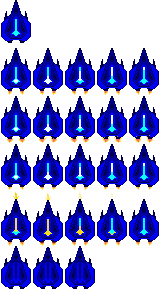
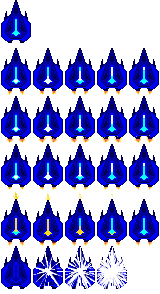
Spitter Art & Plane Death

Changed region(s): [[0.2188, 0.8265, 0.8125, 1.0], [0.0625, 0.8571, 0.1562, 0.9796]]

diff --git a/SecondSemesterExamProject/Components/Enemies/Ranged/Ranged.cs b/SecondSemesterExamProject/Components/Enemies/Ranged/Ranged.cs
@@ -28,11 +28,6 @@ namespace TankGame
         /// </summary>
         public override void CreateAnimation()
         {
-            animator.CreateAnimation("Idle", new Animation(5, 23, 0, 23, 23, 4, Vector2.Zero));
-            animator.CreateAnimation("Walk", new Animation(4, 46, 0, 23, 25, 8, Vector2.Zero));
-            animator.CreateAnimation("Attack1", new Animation(5, 71, 0, 23, 29, 10, Vector2.Zero));
-            animator.CreateAnimation("Attack2", new Animation(5, 100, 0, 23, 29, 10, Vector2.Zero));
-            animator.CreateAnimation("Death", new Animation(6, 129, 0, 23, 23, 8, Vector2.Zero));
             base.CreateAnimation();
         }
 
@@ -72,6 +67,13 @@ namespace TankGame
 
                     BulletPool.CreateBullet(GameObject.Transform.Position, Alignment.Enemy,
                         bulletType, rotation + (GameWorld.Instance.Rnd.Next(-spread, spread)));
+
+                    if (attackVariation > 2)//Adds animation variation
+                    {
+                        attackVariation = 1;
+                    }
+                    animator.PlayAnimation("Attack" + attackVariation);
+                    attackVariation++;
 
                     attackTimeStamp = GameWorld.Instance.TotalGameTime;
 

diff --git a/SecondSemesterExamProject/Components/Enemies/Ranged/Spitter.cs b/SecondSemesterExamProject/Components/Enemies/Ranged/Spitter.cs
@@ -1,4 +1,5 @@
-using System;
+using Microsoft.Xna.Framework;
+using System;
 using System.Collections.Generic;
 using System.Linq;
 using System.Text;
@@ -19,6 +20,11 @@ namespace TankGame
 
         public override void CreateAnimation()
         {
+            animator.CreateAnimation("Idle", new Animation(3, 29, 0, 21, 29, 4, Vector2.Zero));
+            animator.CreateAnimation("Walk", new Animation(4, 58, 0, 21, 29, 6, Vector2.Zero));
+            animator.CreateAnimation("Attack1", new Animation(4, 87, 0, 21, 29, 8, Vector2.Zero));
+            animator.CreateAnimation("Attack2", new Animation(4, 116, 0, 21, 29, 8, Vector2.Zero));
+            animator.CreateAnimation("Death", new Animation(5, 145, 0, 21, 29, 6, Vector2.Zero));
             base.CreateAnimation();
         }
 

diff --git a/SecondSemesterExamProject/Components/Vehicle/Plane.cs b/SecondSemesterExamProject/Components/Vehicle/Plane.cs
@@ -36,7 +36,7 @@ namespace TankGame
             animator.CreateAnimation("Shoot", new Animation(5, 192, 0, 32, 54, 10 / weapon.FireRate, new Vector2(0,-3)));
             //animator.CreateAnimation("MoveShootForward", new Animation(5, 207, 0, 28, 49, 5, Vector2.Zero));
             //animator.CreateAnimation("MoveShootBackward", new Animation(5, 256, 0, 28, 49, 5, Vector2.Zero));
-            animator.CreateAnimation("Death", new Animation(3, 246, 0, 32, 48, 5, Vector2.Zero));
+            animator.CreateAnimation("Death", new Animation(4, 246, 0, 32, 48, 6, Vector2.Zero));
         }
 
         /// <summary>

diff --git a/SecondSemesterExamProject/Constant.cs b/SecondSemesterExamProject/Constant.cs
@@ -194,7 +194,7 @@ namespace TankGame
 
         #region Spitter
         public readonly static int spitterGold = 2;
-        public static readonly string spitterSpriteSheet = "BasicEnemy";
+        public static readonly string spitterSpriteSheet = "SpitterEnemy";
         public static readonly int spitterHealth = 200;
         public static readonly float spitterMovementSpeed = 25;
         public static readonly float spitterAttackRate = 0.7f;
